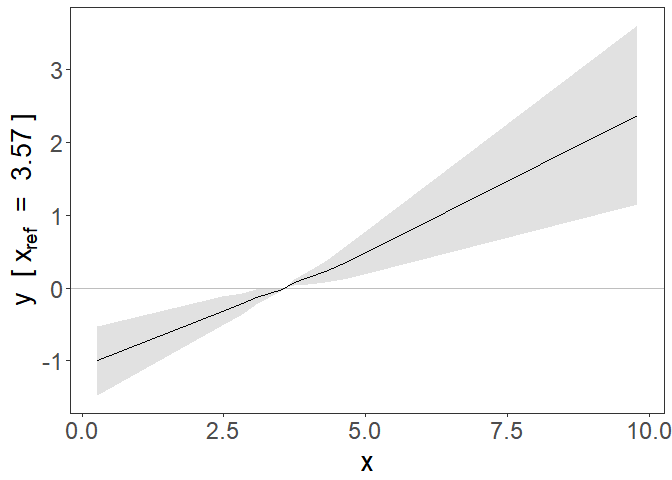
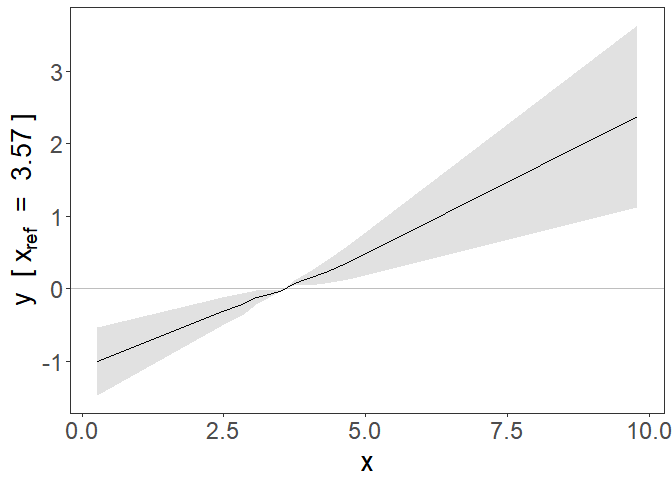
read me fixed

diff --git a/README.md b/README.md
@@ -57,20 +57,20 @@ library(SUMnlmr)
 test_data<-create_ind_data(N=10000, beta2=2, beta1=1)
 # this creates quadratic.Y  = x + 2x^2 + errorY 
 head(test_data)
-#>   g          u     errorX     errorY        X linear.Y quadratic.Y   sqrt.Y
-#> 1 1 0.19257241 0.21750424  0.1095893 2.660077 2.923724    17.07574 1.894621
-#> 2 1 0.99226645 0.89983127  1.2951760 4.142098 6.231087    40.54503 4.124204
-#> 3 0 0.09505427 0.65239362  0.4421590 2.747448 3.265650    18.36259 2.175745
-#> 4 0 0.78136090 0.29185969 -0.2402236 3.073221 3.458086    22.34746 2.137926
-#> 5 1 0.80840200 0.02554516  0.2703329 3.083947 4.001002    23.02246 2.673172
-#> 6 0 0.20685864 1.57363289  0.2451439 3.780492 4.191122    32.77535 2.354979
+#>   g         u    errorX      errorY        X linear.Y quadratic.Y    sqrt.Y
+#> 1 1 0.9005680 2.0223800 -0.09563664 5.172948 5.797766    59.31655 2.8992293
+#> 2 0 0.6494483 0.8381424 -1.44817082 3.487591 2.558979    26.88556 0.9388971
+#> 3 0 0.4838572 1.3767751  1.51179578 3.860632 5.759514    35.56848 3.8637308
+#> 4 0 0.5454714 2.7137997  2.10655517 5.259271 7.802203    63.12207 4.8362424
+#> 5 1 0.6899548 0.6736310 -0.60041173 3.613586 3.565138    29.68114 1.8524955
+#> 6 0 0.6261793 1.1058177  0.45153692 3.731997 4.684477    32.54008 2.8843181
 #>      log.Y threshold.Y fracpoly.Y
-#> 1 1.242002    2.923724   4.880434
-#> 2 3.510192    6.231087   9.073492
-#> 3 1.528875    3.265650   5.286995
-#> 4 1.507591    3.458086   5.703538
-#> 5 2.043265    4.001002   6.253422
-#> 6 1.740485    4.191122   6.850830
+#> 1 2.268260    5.797766   9.084651
+#> 2 0.320599    2.558979   5.057401
+#> 3 3.249713    5.759514   8.461176
+#> 4 4.202925    7.802203  11.122188
+#> 5 1.236253    3.565138   6.134539
+#> 6 2.269424    4.684477   7.318364
 ```
 
 Then we use create\_nlmr\_summary to summarise it.
@@ -89,27 +89,27 @@ summ_data<-create_nlmr_summary(y = test_data$quadratic.Y,
 head(summ_data)
 #> $summary
 #>           bx       by        bxse       byse   x0mean    xmean     xmin
-#> 1  0.2563274 2.840523 0.005990312 0.08290871 2.469945 2.427134 2.016511
-#> 2  0.2431256 3.121202 0.003048890 0.06632459 2.750736 2.739816 2.616297
-#> 3  0.2363550 3.062920 0.002609102 0.05969029 2.965709 2.944732 2.855639
-#> 4  0.2407049 3.253521 0.002190186 0.05788702 3.114415 3.119253 3.028854
-#> 5  0.2361049 3.326372 0.002731445 0.06426864 3.291852 3.303813 3.212336
-#> 6  0.2373013 3.635229 0.003264085 0.07012718 3.499586 3.509724 3.400367
-#> 7  0.2372523 3.915659 0.004031938 0.08267972 3.763051 3.771174 3.628152
-#> 8  0.2352524 4.174409 0.005428004 0.10836539 4.091994 4.106221 3.921516
-#> 9  0.2331673 4.529809 0.009505515 0.19040207 4.599431 4.611692 4.303846
-#> 10 0.2020572 4.775111 0.050378810 1.45151717 5.985223 5.998383 4.978541
+#> 1  0.2429131 2.733407 0.005603564 0.07764084 2.462284 2.420238 2.019524
+#> 2  0.2432329 3.012317 0.003179961 0.06079895 2.747566 2.725714 2.604142
+#> 3  0.2411304 3.148553 0.002410041 0.05817655 2.939542 2.931291 2.836433
+#> 4  0.2469906 3.317581 0.002315272 0.05987202 3.111563 3.108443 3.021684
+#> 5  0.2474042 3.528543 0.002752154 0.06212443 3.281760 3.291479 3.202956
+#> 6  0.2515016 3.808396 0.003223459 0.07287511 3.484876 3.501065 3.388753
+#> 7  0.2453415 4.083432 0.004426916 0.08824239 3.745661 3.760102 3.621663
+#> 8  0.2460483 4.300287 0.006051686 0.11896137 4.111155 4.121576 3.913532
+#> 9  0.2387040 4.776967 0.009525743 0.19240588 4.637730 4.649872 4.340167
+#> 10 0.2381705 5.982458 0.049521500 1.41185388 6.031824 6.044180 5.041532
 #>         xmax
-#> 1   2.616271
-#> 2   2.855350
-#> 3   3.028849
-#> 4   3.211992
-#> 5   3.400278
-#> 6   3.627897
-#> 7   3.921352
-#> 8   4.303474
-#> 9   4.976744
-#> 10 12.042297
+#> 1   2.603140
+#> 2   2.836406
+#> 3   3.021423
+#> 4   3.202905
+#> 5   3.388672
+#> 6   3.621336
+#> 7   3.913485
+#> 8   4.339599
+#> 9   5.039660
+#> 10 11.770173
 ```
 
 If we have co-variants we want to adjust for in our analysis, we need to
@@ -129,27 +129,27 @@ summ_covar<-create_nlmr_summary(y = test_data$quadratic.Y,
 head(summ_covar)
 #> $summary
 #>             bx         by         bxse        byse   x0mean    xmean     xmin
-#> 1  0.019229675 -1.9591380 2.073199e-03 0.312716839 3.570962 2.427134 2.016511
-#> 2  0.010012377 -0.7502508 2.746962e-04 0.021081387 3.026816 2.739816 2.616297
-#> 3  0.008692008 -0.6602348 1.766025e-04 0.013770247 3.174696 2.944732 2.855639
-#> 4  0.009096207 -0.7113932 1.204047e-04 0.009856845 3.263246 3.119253 3.028854
-#> 5  0.008895909 -0.7241509 1.062682e-04 0.009262104 3.490694 3.303813 3.212336
-#> 6  0.009106506 -0.7680654 9.084954e-05 0.008139758 3.675445 3.509724 3.400367
-#> 7  0.008896036 -0.7773520 7.908080e-05 0.007217543 3.910962 3.771174 3.628152
-#> 8  0.008673889 -0.7633911 8.821448e-05 0.008091382 4.031938 4.106221 3.921516
-#> 9  0.007818008 -0.7035055 1.122742e-04 0.010093100 4.149922 4.611692 4.303846
-#> 10 0.003225216 -0.2915892 2.592554e-04 0.023413905 4.237261 5.998383 4.978541
+#> 1  0.017925800 -1.8303089 1.896658e-03 0.274480400 3.636208 2.420238 2.019524
+#> 2  0.007667441 -0.5475614 3.009037e-04 0.022075236 2.993669 2.725714 2.604142
+#> 3  0.008125296 -0.6108139 1.656974e-04 0.012628241 3.141104 2.931291 2.836433
+#> 4  0.007688979 -0.5970659 1.287311e-04 0.010121586 3.294468 3.108443 3.021684
+#> 5  0.007970408 -0.6390177 1.111764e-04 0.009343073 3.476757 3.291479 3.202956
+#> 6  0.007841132 -0.6618080 8.662089e-05 0.007803056 3.695819 3.501065 3.388753
+#> 7  0.007990362 -0.6958934 8.204351e-05 0.007467348 3.919490 3.760102 3.621663
+#> 8  0.007530148 -0.6598165 8.579979e-05 0.007743820 4.027460 4.121576 3.913532
+#> 9  0.006924381 -0.6186743 1.086855e-04 0.009737527 4.130589 4.649872 4.340167
+#> 10 0.002708821 -0.2437146 2.250764e-04 0.020336782 4.238398 6.044180 5.041532
 #>         xmax
-#> 1   2.616271
-#> 2   2.855350
-#> 3   3.028849
-#> 4   3.211992
-#> 5   3.400278
-#> 6   3.627897
-#> 7   3.921352
-#> 8   4.303474
-#> 9   4.976744
-#> 10 12.042297
+#> 1   2.603140
+#> 2   2.836406
+#> 3   3.021423
+#> 4   3.202905
+#> 5   3.388672
+#> 6   3.621336
+#> 7   3.913485
+#> 8   4.339599
+#> 9   5.039660
+#> 10 11.770173
 ```
 
 These have used a single genetic variant count, but the method works
@@ -186,19 +186,19 @@ summary(model)
 #> 
 #> Coefficients:
 #>   Estimate Std. Error 95%CI Lower 95%CI Upper   p.value    
-#> 2 2.189596   0.015964    2.158307      2.2209 < 2.2e-16 ***
+#> 2 2.197367   0.015646    2.166702       2.228 < 2.2e-16 ***
 #> ---
 #> Signif. codes:  0 '***' 0.001 '**' 0.01 '*' 0.05 '.' 0.1 ' ' 1
 #> 
 #> Non-linearity tests
-#> Fractional polynomial degree p-value: 1.11e-06
+#> Fractional polynomial degree p-value: 0.11
 #> Fractional polynomial non-linearity p-value: 0
-#> Quadratic p-value: 2.95e-50
+#> Quadratic p-value: 1.21e-75
 #> Cochran Q p-value: 0
 #> 
 #> Heterogeneity tests
-#> Cochran Q p-value: 0.0965
-#> Trend p-value: 0.0134
+#> Cochran Q p-value: 0.446
+#> Trend p-value: 0.228
 ```
 
 <img src="man/figures/README-example4-1.png" width="100%" /> This also
@@ -226,12 +226,12 @@ Q: Cochran Q heterogeneity test \* trend: trend test
 
 ``` r
 model$p_tests
-#>          fp_d1_d2 fp         quad Q
-#> [1,] 1.105956e-06  0 2.950345e-50 0
+#>       fp_d1_d2 fp         quad Q
+#> [1,] 0.1104167  0 1.211889e-75 0
 
 model$p_heterogeneity
-#>               Q      trend
-#> [1,] 0.09648072 0.01337154
+#>              Q     trend
+#> [1,] 0.4458058 0.2276787
 ```
 
 ## Example 3: Piecewise linear model
@@ -255,26 +255,26 @@ summary(model2)
 #> 
 #> LACE:
 #>    Estimate Std. Error 95%CI Lower 95%CI Upper   p.value    
-#> 1  11.88309    0.34684    11.19833      12.568 < 2.2e-16 ***
-#> 2  13.05729    0.27746    12.49250      13.622 < 2.2e-16 ***
-#> 3  12.81347    0.24971    12.31661      13.310 < 2.2e-16 ***
-#> 4  13.61083    0.24217    13.12634      14.095 < 2.2e-16 ***
-#> 5  13.91560    0.26886    13.35748      14.474 < 2.2e-16 ***
-#> 6  15.20768    0.29337    14.60379      15.812 < 2.2e-16 ***
-#> 7  16.38083    0.34588    15.66367      17.098 < 2.2e-16 ***
-#> 8  17.46329    0.45334    16.59874      18.328 < 2.2e-16 ***
-#> 9  18.95008    0.79653    17.40968      20.491 < 2.2e-16 ***
-#> 10 19.97628    6.07230     8.32008      31.633 0.0007822 ***
+#> 1  11.13532    0.31629    10.49014      11.780 < 2.2e-16 ***
+#> 2  12.27154    0.24768    11.80163      12.742 < 2.2e-16 ***
+#> 3  12.82654    0.23700    12.36498      13.288 < 2.2e-16 ***
+#> 4  13.51512    0.24391    13.01722      14.013 < 2.2e-16 ***
+#> 5  14.37454    0.25308    13.85346      14.896 < 2.2e-16 ***
+#> 6  15.51460    0.29688    14.94285      16.086 < 2.2e-16 ***
+#> 7  16.63504    0.35948    15.92894      17.341 < 2.2e-16 ***
+#> 8  17.51846    0.48462    16.55800      18.479 < 2.2e-16 ***
+#> 9  19.46035    0.78382    17.92542      20.995 < 2.2e-16 ***
+#> 10 24.37127    5.75159    13.03990      35.703 2.492e-05 ***
 #> ---
 #> Signif. codes:  0 '***' 0.001 '**' 0.01 '*' 0.05 '.' 0.1 ' ' 1
 #> 
 #> Non-linearity tests
-#> Quadratic p-value: 2.25e-50
+#> Quadratic p-value: 1.32e-75
 #> Cochran Q p-value: 0
 #> 
 #> Heterogeneity tests
-#> Cochran Q p-value: 0.0965
-#> Trend p-value: 0.0154
+#> Cochran Q p-value: 0.446
+#> Trend p-value: 0.241
 ```
 
 <img src="man/figures/README-pl example-1.png" width="100%" /> Again the
@@ -327,20 +327,18 @@ summary(model3)
 #> Powers: -2
 #> 
 #> Coefficients:
-#>    Estimate Std. Error 95%CI Lower 95%CI Upper p.value  
-#> -2  3.32411    1.89864    -0.39723      7.0454 0.07998 .
-#> ---
-#> Signif. codes:  0 '***' 0.001 '**' 0.01 '*' 0.05 '.' 0.1 ' ' 1
+#>    Estimate Std. Error 95%CI Lower 95%CI Upper p.value
+#> -2  -1.0506     1.8704     -4.7165      2.6153  0.5743
 #> 
 #> Non-linearity tests
-#> Fractional polynomial degree p-value: 0.214
-#> Fractional polynomial non-linearity p-value: 0.14
-#> Quadratic p-value: 0.851
-#> Cochran Q p-value: 0.133
+#> Fractional polynomial degree p-value: 0.943
+#> Fractional polynomial non-linearity p-value: 0.676
+#> Quadratic p-value: 0.97
+#> Cochran Q p-value: 0.751
 #> 
 #> Heterogeneity tests
-#> Cochran Q p-value: 0.212
-#> Trend p-value: 0.0251
+#> Cochran Q p-value: 0.571
+#> Trend p-value: 0.251
 ```
 
 <img src="man/figures/README-bin-1.png" width="100%" /> Not
@@ -371,16 +369,16 @@ summary(model4)
 #> 
 #> LACE:
 #>     Estimate Std. Error 95%CI Lower 95%CI Upper   p.value    
-#> 1   0.406261   0.059553    0.294549      0.5180 1.019e-12 ***
-#> 2   0.362442   0.073477    0.218945      0.5059 7.402e-07 ***
-#> 3   0.311077   0.087016    0.134861      0.4873 0.0005401 ***
-#> 4   0.286820   0.096907    0.102517      0.4711 0.0022867 ** 
-#> 5   0.152663   0.101981   -0.044997      0.3503 0.1300742    
-#> 6   0.141322   0.105426   -0.069907      0.3526 0.1897467    
-#> 7   0.128421   0.102452   -0.077531      0.3344 0.2216494    
-#> 8   0.191138   0.104945   -0.024860      0.4071 0.0828443 .  
-#> 9   0.223650   0.104324    0.015376      0.4319 0.0353175 *  
-#> 10  0.268987   0.098653    0.074594      0.4634 0.0066858 ** 
+#> 1   0.406261   0.059553    0.291876      0.5206 3.371e-12 ***
+#> 2   0.362442   0.073477    0.215760      0.5091 1.279e-06 ***
+#> 3   0.311077   0.087016    0.139440      0.4827 0.0003818 ***
+#> 4   0.286820   0.096907    0.094762      0.4789 0.0034217 ** 
+#> 5   0.152663   0.101981   -0.046355      0.3517 0.1327153    
+#> 6   0.141322   0.105426   -0.072826      0.3555 0.1958532    
+#> 7   0.128421   0.102452   -0.070173      0.3270 0.2050004    
+#> 8   0.191138   0.104945   -0.011314      0.3936 0.0642469 .  
+#> 9   0.223650   0.104324    0.015068      0.4322 0.0355888 *  
+#> 10  0.268987   0.098653    0.074907      0.4631 0.0065979 ** 
 #> ---
 #> Signif. codes:  0 '***' 0.001 '**' 0.01 '*' 0.05 '.' 0.1 ' ' 1
 #> 
@@ -413,17 +411,17 @@ summary(model5)
 #> Number of individuals: ; Quantiles: 10; Number of bootstrap replications: 1000
 #> 
 #> LACE:
-#>    Estimate Std. Error 95%CI Lower 95%CI Upper   p.value    
-#> 1  0.307638   0.062863    0.184835      0.4304 9.105e-07 ***
-#> 2  0.292289   0.078040    0.132482      0.4521 0.0003372 ***
-#> 3  0.357924   0.091549    0.175390      0.5405 0.0001214 ***
-#> 4  0.215240   0.101458    0.015487      0.4150 0.0346896 *  
-#> 5  0.254128   0.106258    0.045407      0.4628 0.0170144 *  
-#> 6  0.430854   0.107940    0.228680      0.6330 2.954e-05 ***
-#> 7  0.258499   0.106875    0.054185      0.4628 0.0131457 *  
-#> 8  0.292122   0.107517    0.087807      0.4964 0.0050735 ** 
-#> 9  0.329697   0.106231    0.118516      0.5409 0.0022136 ** 
-#> 10 0.395047   0.100530    0.199407      0.5907 7.566e-05 ***
+#>     Estimate Std. Error 95%CI Lower 95%CI Upper   p.value    
+#> 1  0.3076383  0.0628626   0.1851991      0.4301 8.451e-07 ***
+#> 2  0.2922888  0.0780399   0.1426731      0.4419 0.0001286 ***
+#> 3  0.3579244  0.0915492   0.1813115      0.5345 7.123e-05 ***
+#> 4  0.2152398  0.1014575   0.0062028      0.4243 0.0435747 *  
+#> 5  0.2541277  0.1062581   0.0500576      0.4582 0.0146555 *  
+#> 6  0.4308538  0.1079399   0.2211773      0.6405 5.637e-05 ***
+#> 7  0.2584994  0.1068753   0.0468446      0.4702 0.0166749 *  
+#> 8  0.2921218  0.1075173   0.0798857      0.5044 0.0069811 ** 
+#> 9  0.3296967  0.1062308   0.1228140      0.5366 0.0017869 ** 
+#> 10 0.3950466  0.1005297   0.1959352      0.5942 0.0001008 ***
 #> ---
 #> Signif. codes:  0 '***' 0.001 '**' 0.01 '*' 0.05 '.' 0.1 ' ' 1
 #> 
